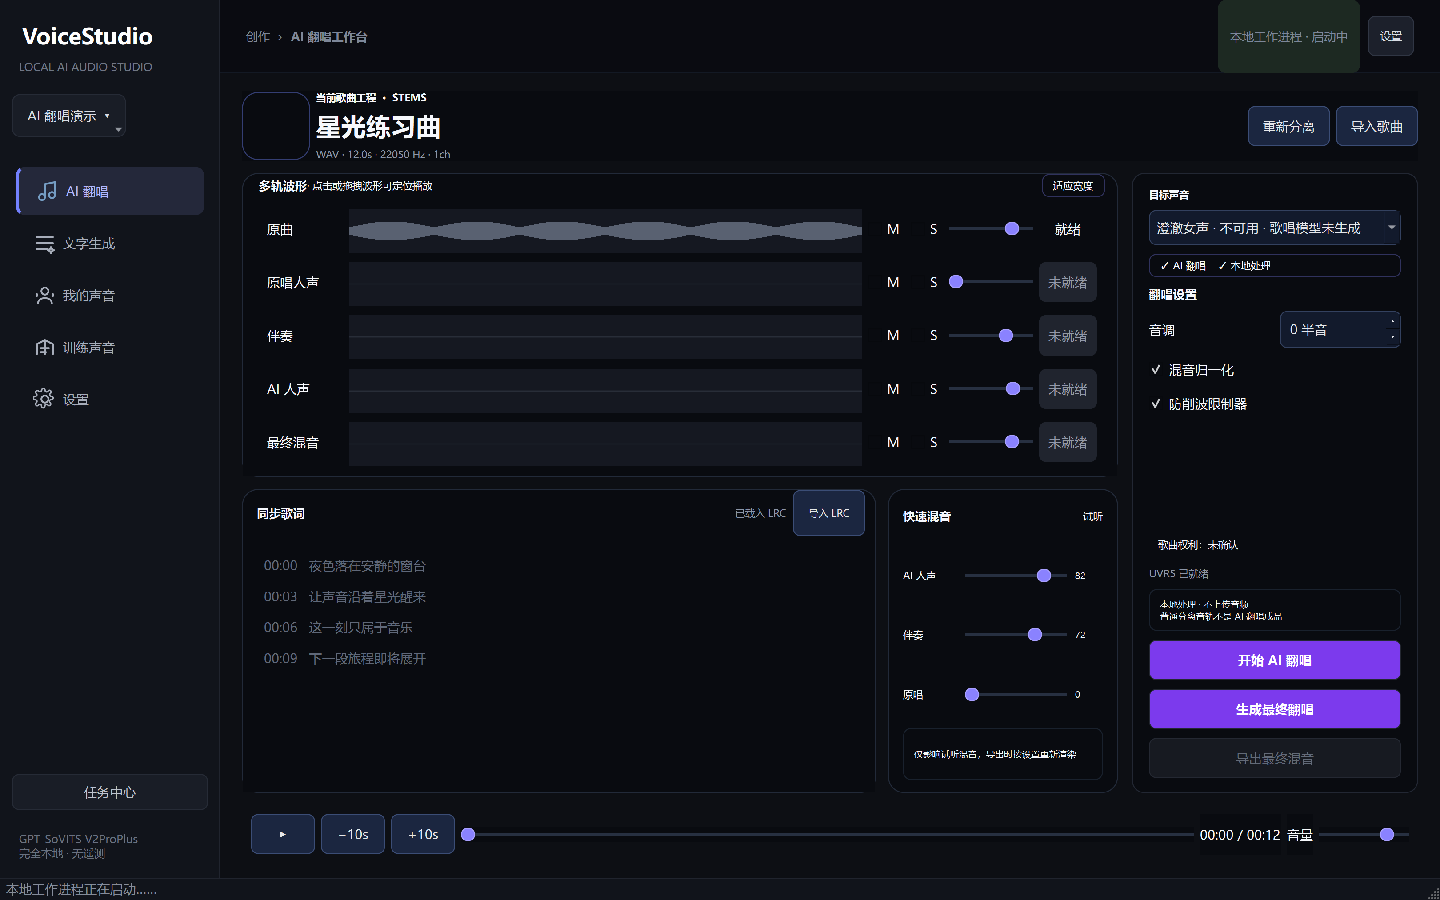
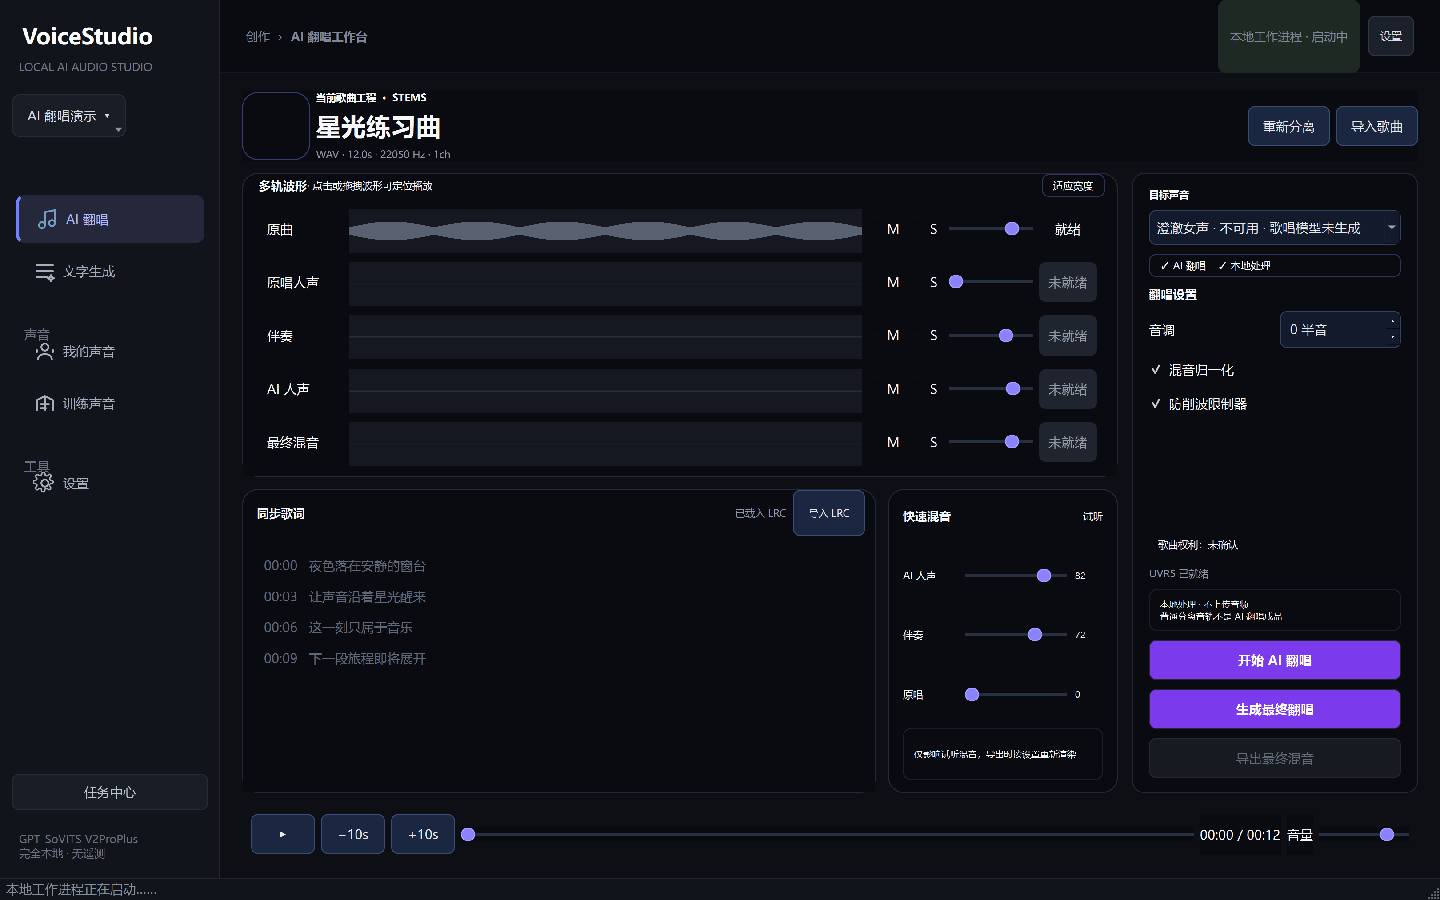
feat: group studio sidebar navigation

diff --git a/src/local_voice_studio/ui/main_window.py b/src/local_voice_studio/ui/main_window.py
@@ -6,10 +6,10 @@ import sys
 from pathlib import Path
 
 from PySide6.QtCore import QProcess, QProcessEnvironment, Qt, QUrl
-from PySide6.QtGui import QCloseEvent, QDesktopServices, QIcon, QTextCursor
+from PySide6.QtGui import QCloseEvent, QDesktopServices, QIcon, QPainter, QTextCursor
 from PySide6.QtWidgets import (
     QCheckBox, QDialog, QFileDialog, QFrame, QHBoxLayout, QInputDialog, QLabel, QListWidget, QListWidgetItem, QMainWindow, QMenu, QMessageBox,
-    QGroupBox, QPlainTextEdit, QProgressBar, QPushButton, QStackedWidget, QToolButton, QVBoxLayout, QWidget,
+    QGroupBox, QPlainTextEdit, QProgressBar, QPushButton, QStackedWidget, QStyledItemDelegate, QStyleOptionViewItem, QToolButton, QVBoxLayout, QWidget,
 )
 
 from ..paths import AppPaths
@@ -100,7 +100,7 @@ class MainWindow(QMainWindow):
     def _build(self) -> None:
         central = QWidget(); root = QHBoxLayout(central); root.setContentsMargins(0, 0, 0, 0); root.setSpacing(0); self.setCentralWidget(central)
         sidebar = QWidget(); sidebar.setObjectName("sidebar"); sidebar.setFixedWidth(220); side_layout = QVBoxLayout(sidebar); side_layout.setContentsMargins(0, 0, 0, 0); brand = QLabel("VoiceStudio"); brand.setObjectName("brand"); side_layout.addWidget(brand); brand_sub = QLabel("LOCAL AI AUDIO STUDIO"); brand_sub.setObjectName("brandSub"); side_layout.addWidget(brand_sub); self.project_button = QToolButton(); self.project_button.setObjectName("projectPicker"); self.project_button.setToolButtonStyle(Qt.ToolButtonTextBesideIcon); self.project_button.setPopupMode(QToolButton.InstantPopup); self.project_menu = QMenu(self.project_button); self.project_menu.aboutToShow.connect(self._refresh_project_menu); self.project_button.setMenu(self.project_menu); side_layout.addWidget(self.project_button)
-        self.navigation = QListWidget(); self.navigation.setObjectName("navigation"); self.navigation.setFrameShape(QListWidget.NoFrame); side_layout.addWidget(self.navigation); task_center = QPushButton("任务中心"); task_center.setObjectName("sidebarButton"); task_center.clicked.connect(self._open_task_center); side_layout.addWidget(task_center); version = QLabel("GPT-SoVITS V2ProPlus\n完全本地 · 无遥测"); version.setObjectName("sidebarFoot"); side_layout.addWidget(version); root.addWidget(sidebar)
+        self.navigation = QListWidget(); self.navigation.setObjectName("navigation"); self.navigation.setFrameShape(QListWidget.NoFrame); self.navigation.setItemDelegate(_NavigationDelegate(self.navigation)); side_layout.addWidget(self.navigation); task_center = QPushButton("任务中心"); task_center.setObjectName("sidebarButton"); task_center.clicked.connect(self._open_task_center); side_layout.addWidget(task_center); version = QLabel("GPT-SoVITS V2ProPlus\n完全本地 · 无遥测"); version.setObjectName("sidebarFoot"); side_layout.addWidget(version); root.addWidget(sidebar)
         workspace = QWidget(); workspace.setObjectName("workspace"); workspace_layout = QVBoxLayout(workspace); workspace_layout.setContentsMargins(0, 0, 0, 0); workspace_layout.setSpacing(0)
         topbar = QFrame(); topbar.setObjectName("topbar"); topbar_layout = QHBoxLayout(topbar); topbar_layout.setContentsMargins(26, 0, 26, 0); topbar_layout.setSpacing(8)
         topbar_layout.addWidget(QLabel("创作")); topbar_layout.addWidget(QLabel("›")); current_title = QLabel("AI 翻唱工作台"); current_title.setObjectName("topbarTitle"); topbar_layout.addWidget(current_title); topbar_layout.addStretch()
@@ -196,3 +196,27 @@ class MainWindow(QMainWindow):
 
 
 STYLE = load_theme()
+
+
+class _NavigationDelegate(QStyledItemDelegate):
+    """Keep the existing five-row navigation API while showing groups."""
+
+    _groups = {0: "创作", 2: "声音", 4: "工具"}
+
+    def sizeHint(self, option: QStyleOptionViewItem, index):
+        size = super().sizeHint(option, index)
+        if index.row() in self._groups:
+            size.setHeight(size.height() + 28)
+        return size
+
+    def paint(self, painter: QPainter, option: QStyleOptionViewItem, index) -> None:
+        group = self._groups.get(index.row())
+        item_option = QStyleOptionViewItem(option)
+        if group:
+            painter.save()
+            painter.setPen("#697180")
+            painter.setFont(option.font)
+            painter.drawText(option.rect.adjusted(18, 3, -10, -9), Qt.AlignLeft | Qt.AlignVCenter, group)
+            painter.restore()
+            item_option.rect = option.rect.adjusted(0, 28, 0, 0)
+        super().paint(painter, item_option, index)
